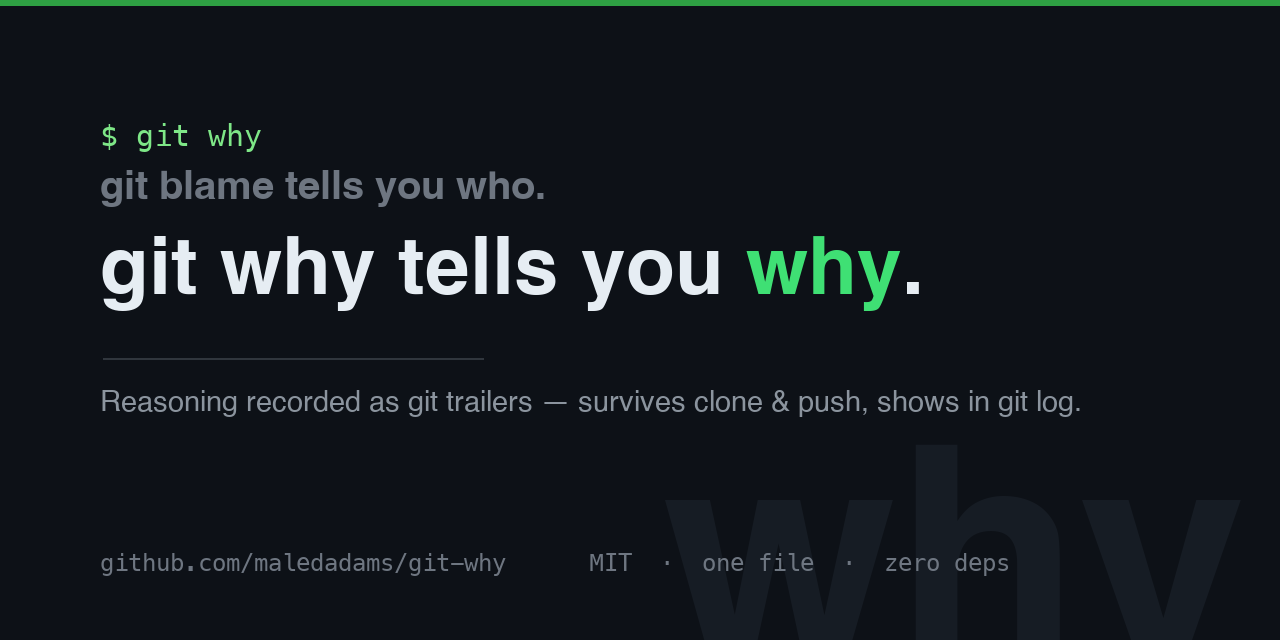
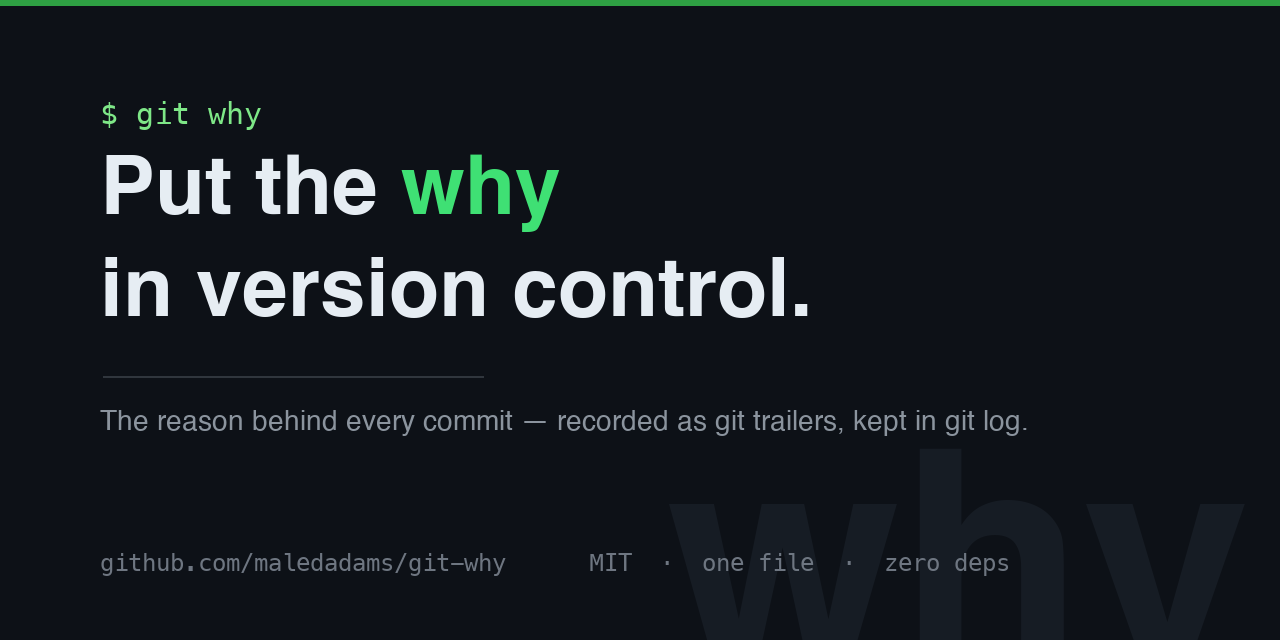
docs: new tagline "Put the why in version control"; drop the git-blame slogan
Why: user asked to replace the git blame / git why who-vs-why phrasing everywhere; new tagline across README, _config, llms.txt, the docstring, launch copy and the regenerated social card; factual git blame references kept, only the slogan removed
Why-Prompt: i dont like that phrase... make up a better phrase → Put the why in version control (remove git blame tells u who from anything else)
Why-Agent: claude-sonnet-5 via claude-code
Why-Session: git-why-seo

Changed region(s): [[0.0625, 0.1562, 0.7188, 0.5], [0.0625, 0.5938, 0.8438, 0.6875]]

diff --git a/git_why.py b/git_why.py
@@ -1,7 +1,7 @@
 #!/usr/bin/env python3
 """git why - recover the reasoning behind a commit.
 
-git blame tells you who. git why tells you why.
+Put the "why" in version control.
 
 Reasoning lives in git trailers on the commit message (Why:, Why-Prompt:,
 Why-Rationale: ...), so it travels with every clone, fetch and push and shows

diff --git a/README.md b/README.md
@@ -1,7 +1,7 @@
 <h1 align="center">git why</h1>
 
 <p align="center">
-  <strong><code>git blame</code> tells you <em>who</em>. <code>git why</code> tells you <em>why</em>.</strong>
+  <strong>Put the <em>why</em> in version control.</strong>
 </p>
 
 <p align="center">
@@ -151,9 +151,9 @@ message — so they live in the commit, survive `clone`/`push`, and show in `git
 
 ### How is git why different from git blame?
 
-`git blame` answers *who* changed a line and *when*. `git why` answers *why* the change was
-made. They're complementary: `git why <file>` shows the reasoning behind the last commit
-that touched that file.
+`git blame` attributes each line to the commit and author that last changed it — not the
+intent behind the change. `git why <file>` picks up where that stops: it shows the recorded
+reasoning for the last commit that touched the file.
 
 ### Where does git why store the reasoning?
 
